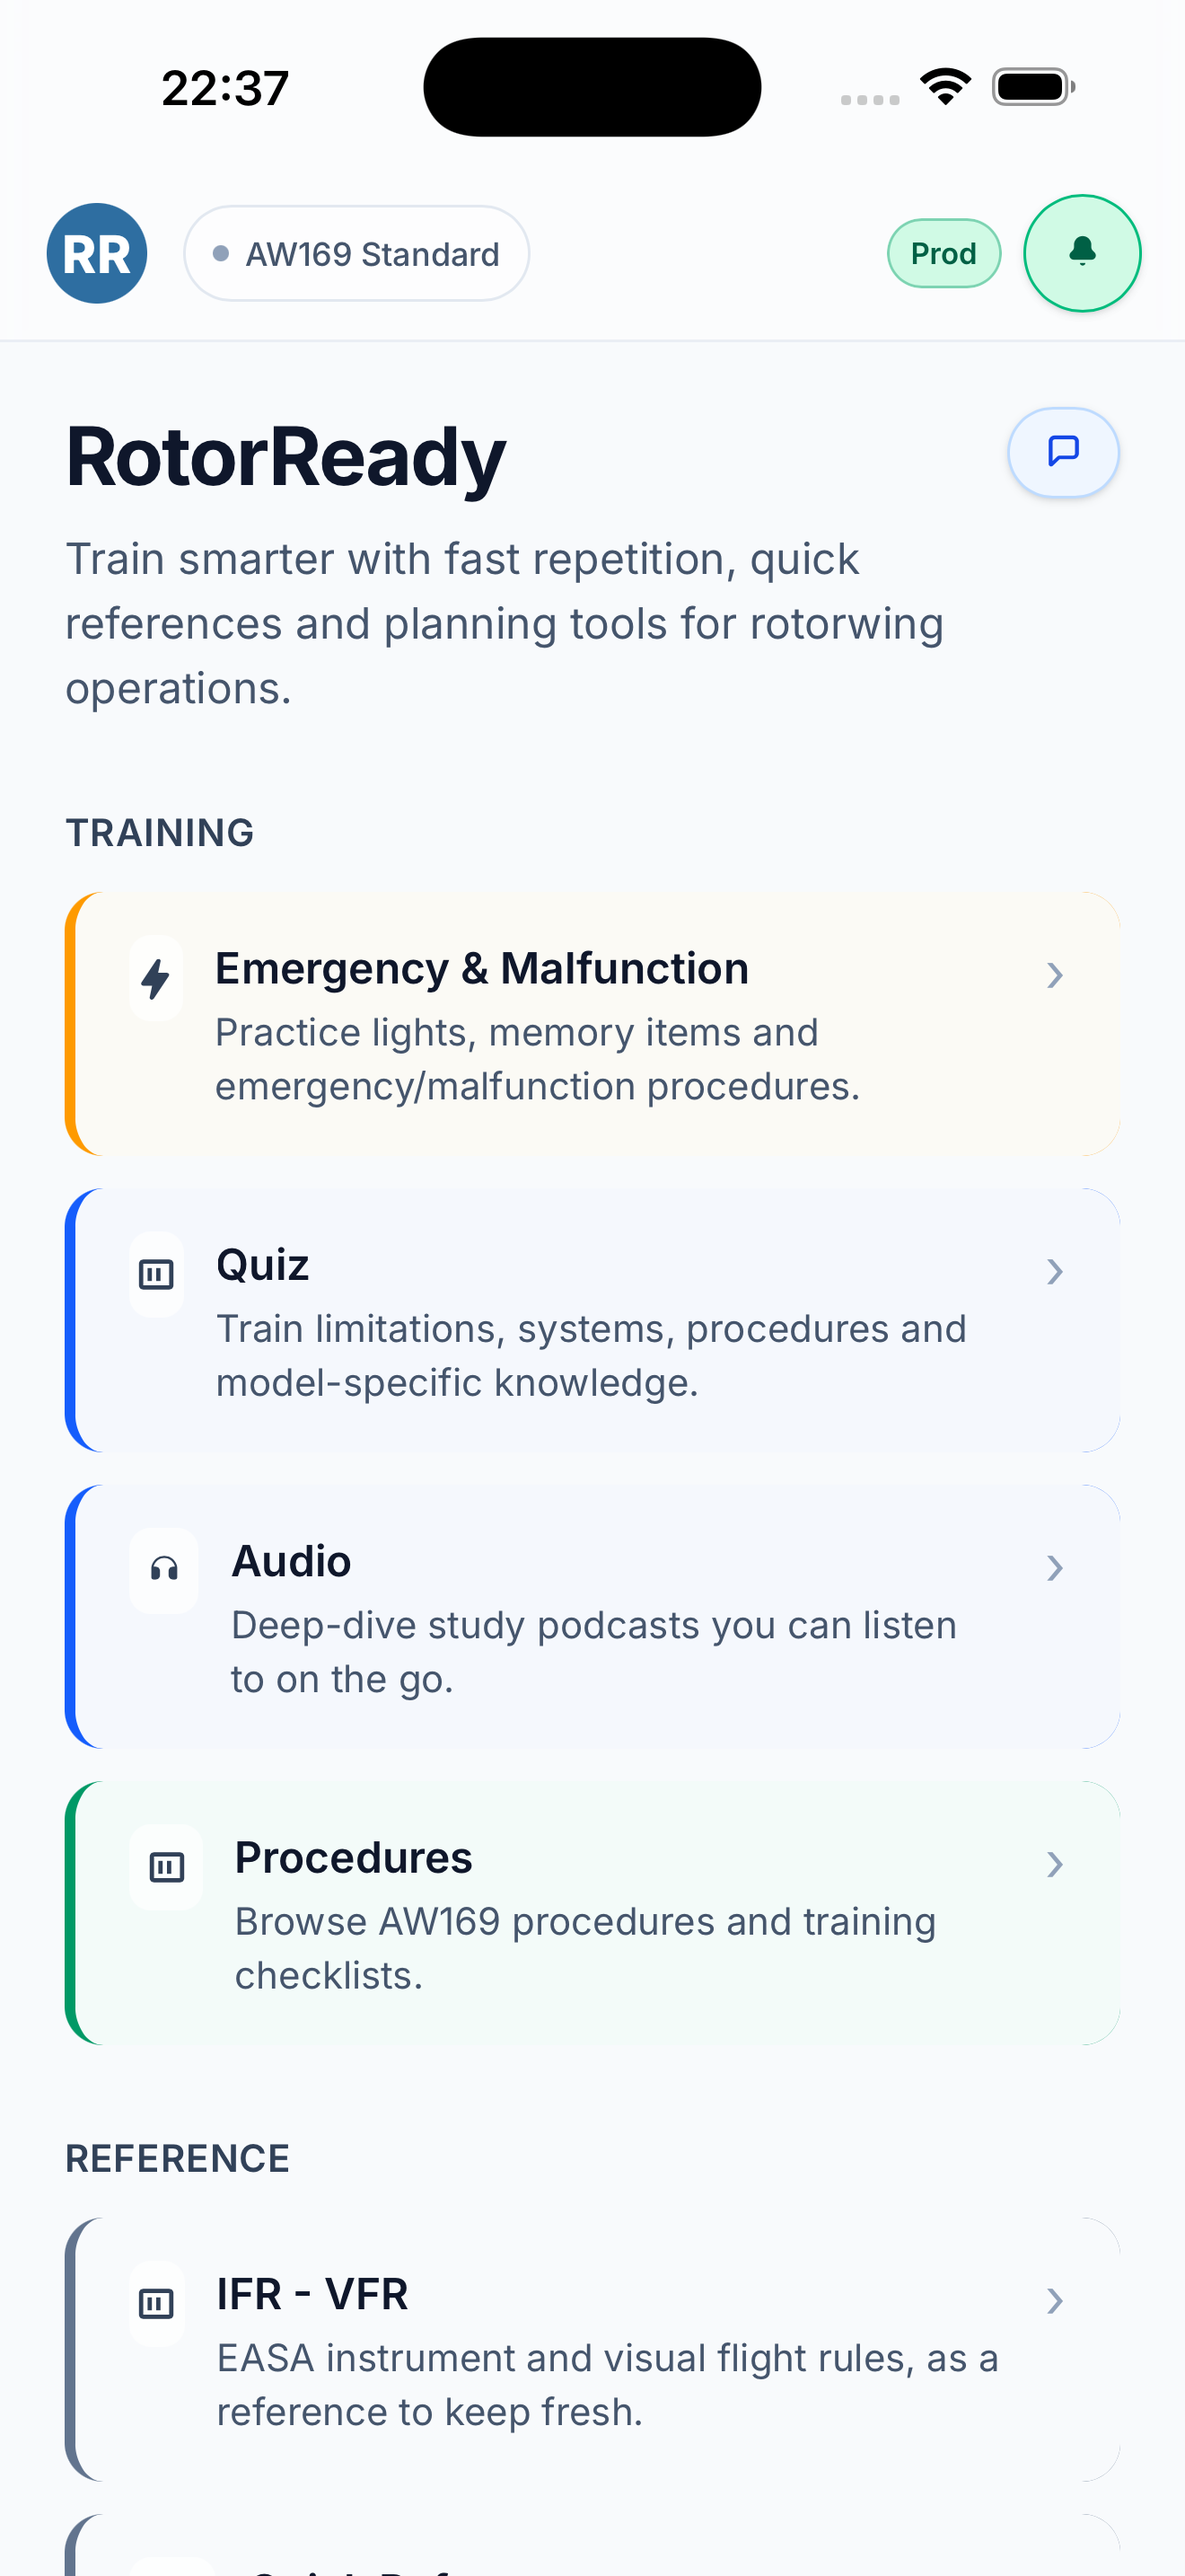
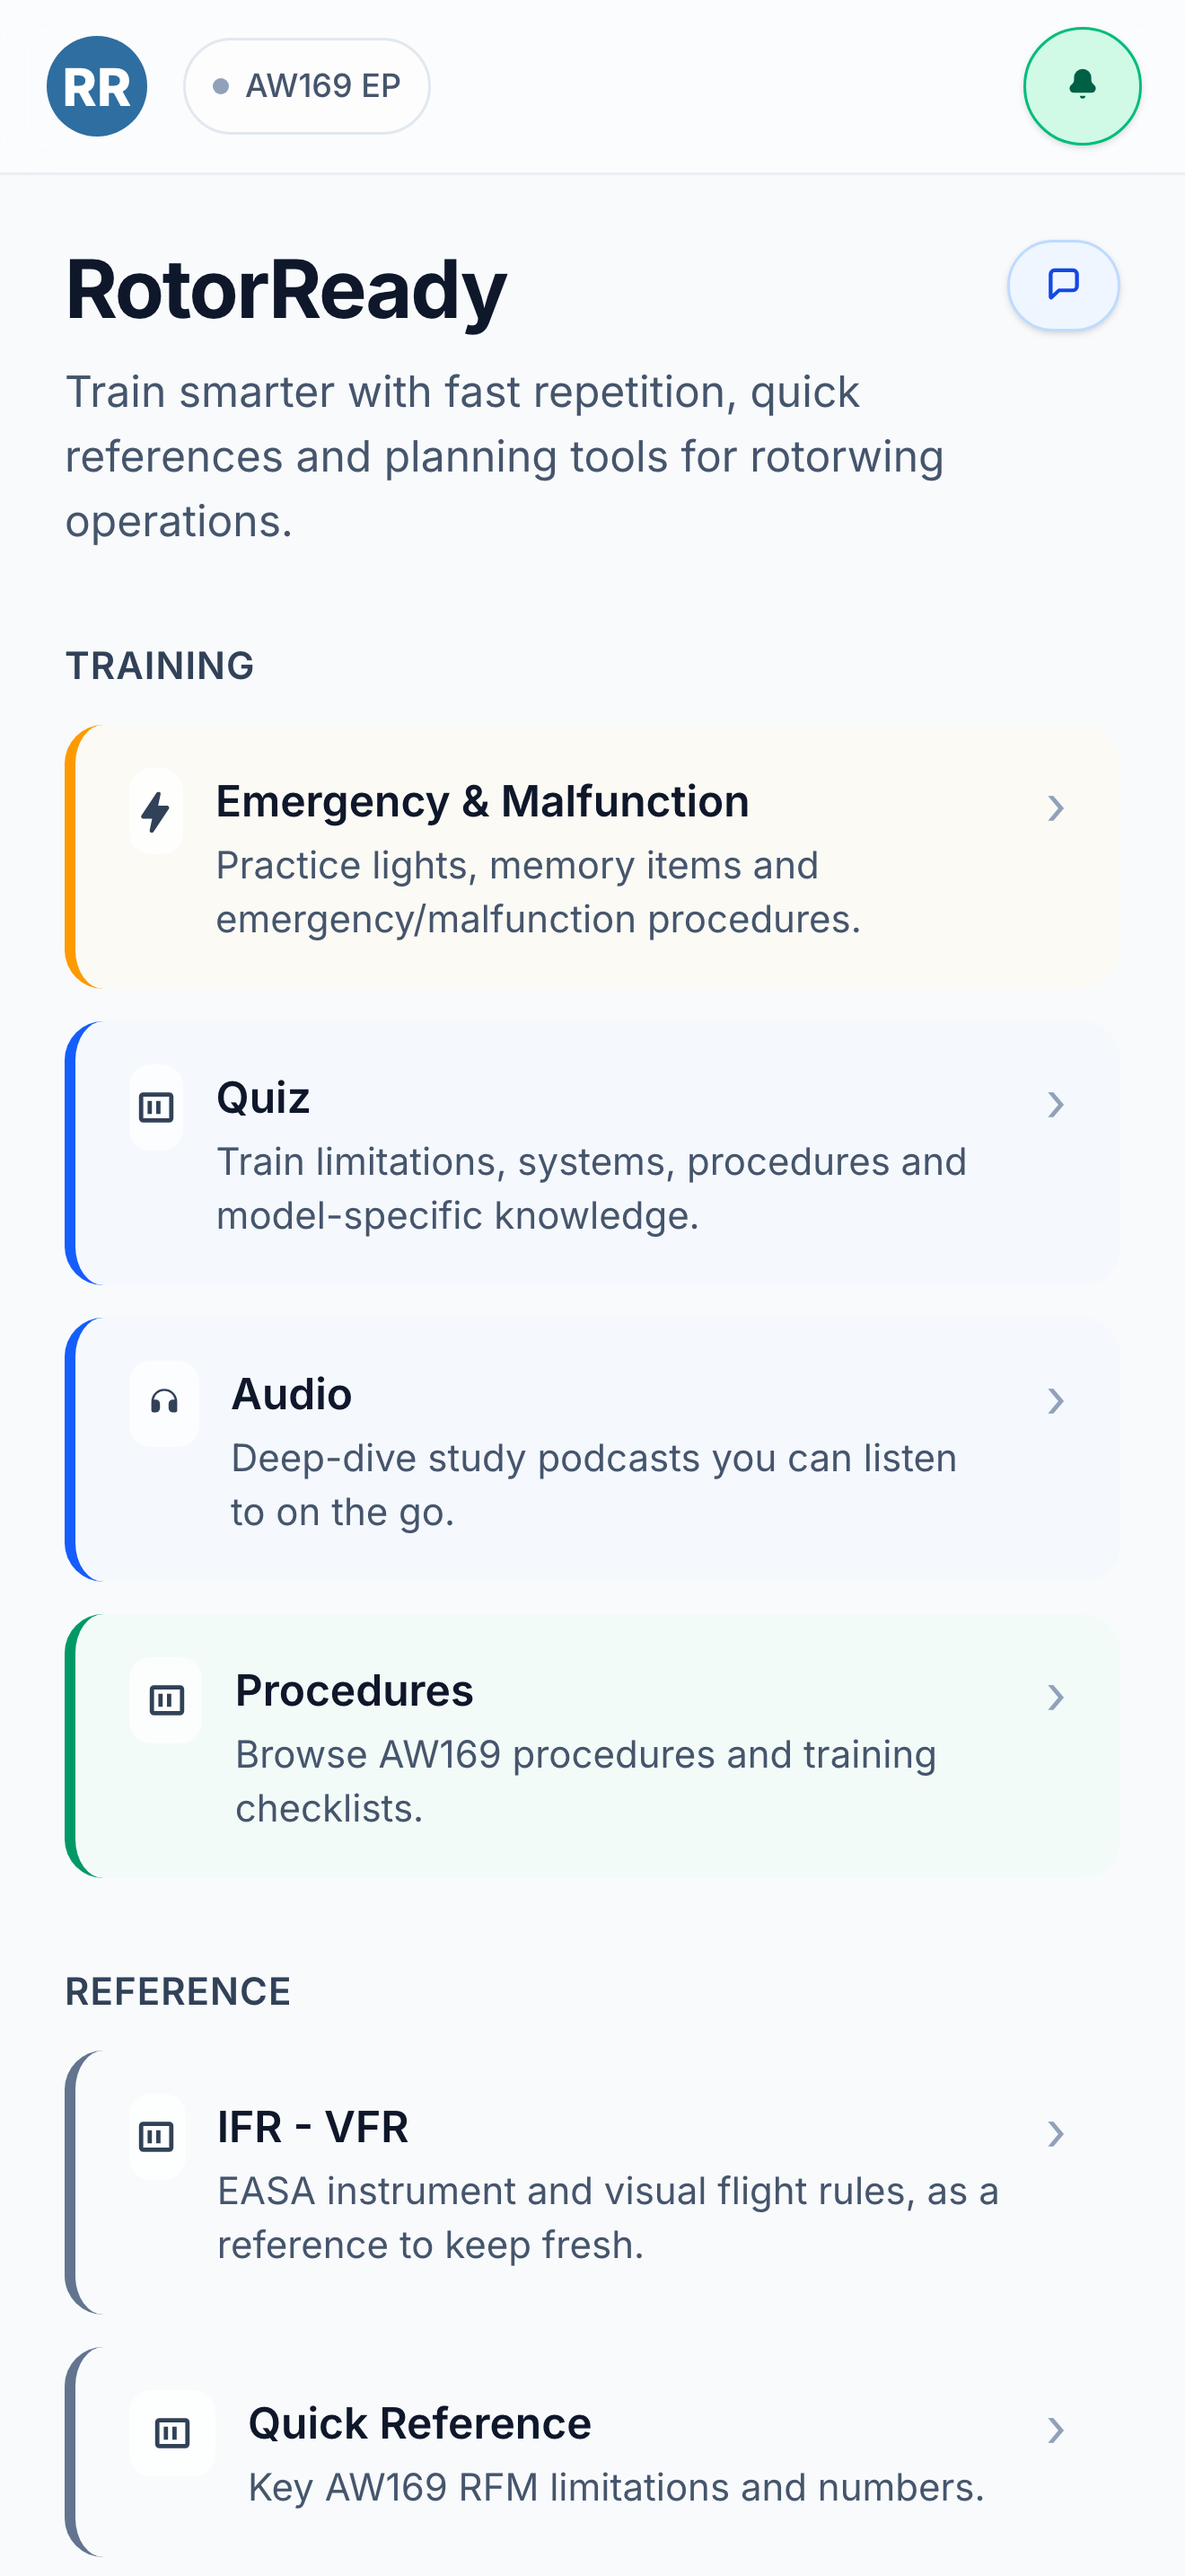
Store listing for this release, and stop offering Audio where there is none
Hide the Audio entry when the selected model has no episodes. Four models
carried the feature flag but no recordings (H135 T3, H145 D2, both H125
variants), so the home screen offered a section that could only answer "no
audio content yet" — a promise the app does not keep, in a user's first
minute with it.

Decided from the episode index rather than a flag in the code, deliberately:
the bar now appears on its own the day episodes are published for a model,
with no app release involved, which is the same way the rest of the content
works since this round of changes.

Store metadata for the new versions:
- Android changelog for versionCode 11 (488 chars, under Play's 500 limit)
- iOS release notes, which had none at all
- Screenshots replacing the two home-screen shots from 1 September: six for
  iPhone 6.9" and four for iPad Pro 13", captured from the real app at the
  exact pixel sizes the stores expect, showing the CWP warning panel, a real
  emergency procedure with its cautions, quick reference, procedures and the
  podcast list rather than only the home screen. Play phone screenshots added
  too, where there were none.

Verified: audio bar shows for the six models with episodes and stays hidden
for the four without, whether their index is missing entirely or present but
empty; every screenshot was opened and checked rather than assumed; full
suite still 27 passing; release check reports ready to archive.

diff --git a/app/components/HomeClient.tsx b/app/components/HomeClient.tsx
@@ -7,7 +7,7 @@ import { shouldShowNorwayTools } from "@/lib/geo/norwayToolsVisibility";
 import { useActiveModelVariant } from "@/lib/models/hooks";
 import { modelRoutes } from "@/lib/models/catalog";
 import { openLiveOnlyLink } from "@/lib/liveOnlyLinks";
-import { contentUrl } from "@/lib/contentUrl";
+import { contentUrl, fetchContentJson } from "@/lib/contentUrl";
 
 function Bar(props: { href: string; title: string; description: string; tone?: "blue"|"amber"|"slate"|"emerald"; icon?: React.ReactNode; liveOnly?: boolean }) {
   const tones: Record<string, string> = {
@@ -59,6 +59,37 @@ function Bar(props: { href: string; title: string; description: string; tone?: "
 	  const activeVariant = variantLoading ? undefined : rawActiveVariant;
 	  const features = activeVariant?.features;
 	  const routes = activeVariant ? modelRoutes(activeVariant) : null;
+
+	  // Whether to offer Audio is decided by whether this model actually has
+	  // episodes, not by a flag in the code: several models carry the feature but
+	  // no recordings yet, and a bar leading to "no audio content" is a promise
+	  // the app does not keep. Reading it from the same index the audio page uses
+	  // also means the bar appears on its own the day episodes are published, with
+	  // no app release involved.
+	  const [hasAudio, setHasAudio] = useState(false);
+
+	  useEffect(() => {
+	    const variantId = activeVariant?.id;
+	    let cancelled = false;
+	    if (!variantId || !features?.audio) {
+	      queueMicrotask(() => {
+	        if (!cancelled) setHasAudio(false);
+	      });
+	      return () => {
+	        cancelled = true;
+	      };
+	    }
+	    fetchContentJson<{ items?: unknown[] }>(`/audio/${variantId}/index.json`)
+	      .then((data) => {
+	        if (!cancelled) setHasAudio(Array.isArray(data?.items) && data.items.length > 0);
+	      })
+	      .catch(() => {
+	        if (!cancelled) setHasAudio(false);
+	      });
+	    return () => {
+	      cancelled = true;
+	    };
+	  }, [activeVariant?.id, features?.audio]);
 
 	  useEffect(() => {
 	    fetch(contentUrl("/quiz-data/versions/data-version.json"))
@@ -115,7 +146,7 @@ function Bar(props: { href: string; title: string; description: string; tone?: "
 		          tone="blue"
 		          icon={<BookIcon className="h-4 w-4" />}
 		        />
-		        {features?.audio && (
+		        {features?.audio && hasAudio && (
           <Bar
             href="/audio"
             title="Audio"
